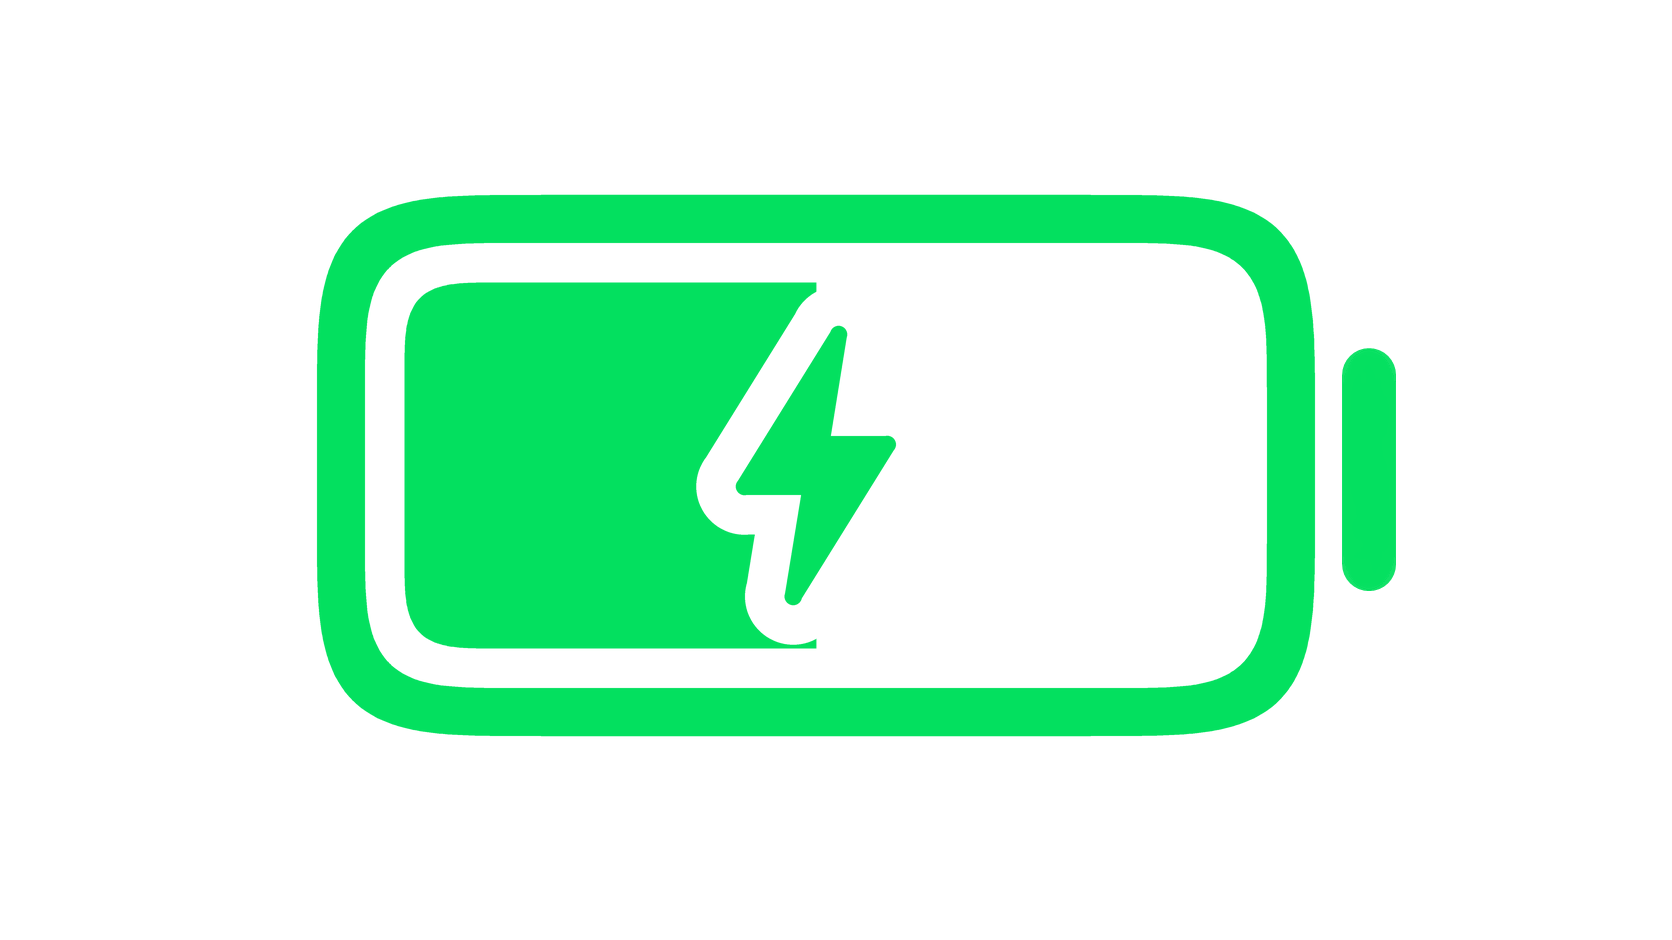
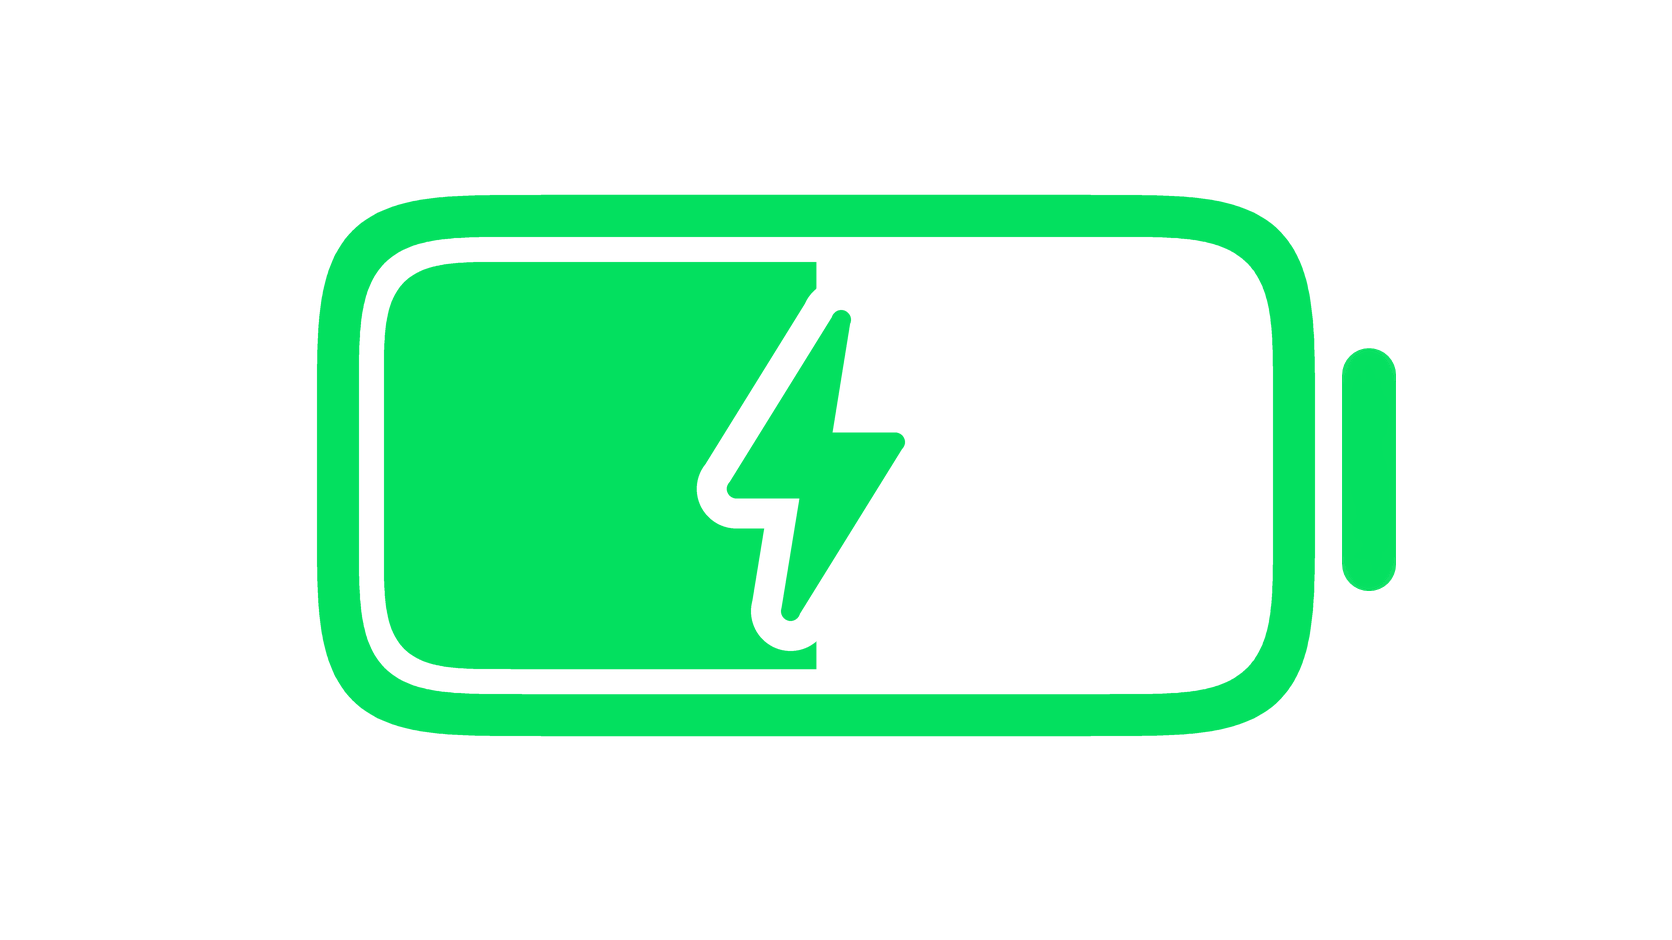
Charge tile (mobile): squircle battery with the earlier thin line and gaps
Line back to the original battery's 42px (of 541), 25px to the charge
and 30px round the bolt, as before the Apple-proportions change; the
squircle shape and terminal bar stay. Mask link bumped to ?v=7.

Claude-Session: https://claude.ai/code/session_01Nj5fkn8CGETFAurUPLGWfd

diff --git a/theme-draft/assets/voltical-pdp-bold.css b/theme-draft/assets/voltical-pdp-bold.css
@@ -2487,11 +2487,10 @@
     object-position: -100000px 0;
   }
   /* Charging, half full: the mask is battery-charging.webp (bump ?v= when
-     the image changes: the link has no version of its own), drawn to the
-     proportions of Apple's own battery icon at our battery's height: line
-     9% of the height and the same gap again to the charge, with squircle
-     (superellipse) corners instead of round ones, and the original
-     battery's terminal bar.
+     the image changes: the link has no version of its own), shaped like
+     Apple's own battery icon at our battery's height, with squircle
+     (superellipse) corners, but with the original battery's line (42 of
+     its 541px height), a thinner gap to the charge, and its terminal bar.
      The charge is kept up to the middle of the inside, with a solid
      lightning bolt with softly rounded corners centred on it
      so half sits on the charge and half on the empty part. Where it crosses
@@ -2499,8 +2498,8 @@
      the iPhone's charging battery does. The <img> itself (and desktop)
      still uses the original file. */
   .template-product .pdp-cmp__card--charge .pdp-cmp__battery-icon {
-    -webkit-mask: url("battery-charging.webp?v=6") 0 0 / 100% 100% no-repeat;
-    mask: url("battery-charging.webp?v=6") 0 0 / 100% 100% no-repeat;
+    -webkit-mask: url("battery-charging.webp?v=7") 0 0 / 100% 100% no-repeat;
+    mask: url("battery-charging.webp?v=7") 0 0 / 100% 100% no-repeat;
   }
 }
 
